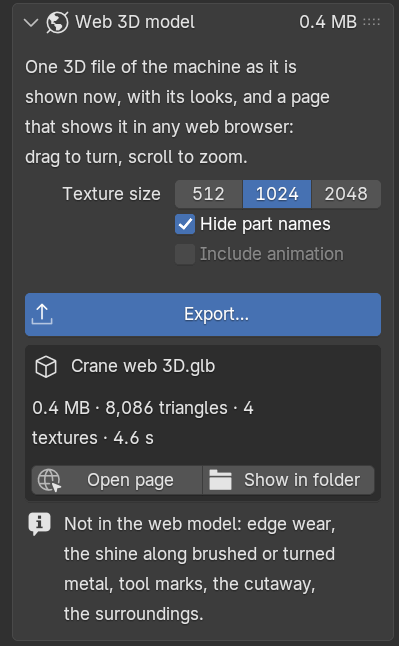
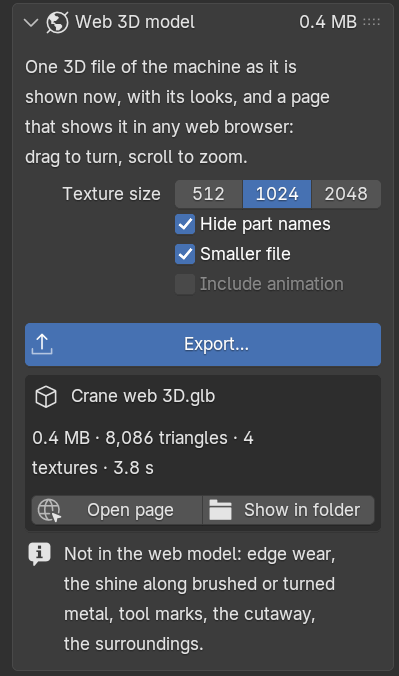
Task 0105: tests fixed, panel label 'Smaller file', guide picture
Claude-Session: https://claude.ai/code/session_01LGPBd6KpoiiiSyVj3fB3CN

diff --git a/tests/test_meshopt.py b/tests/test_meshopt.py
@@ -9,8 +9,7 @@ import pytest
 
 from fresing_render.core import meshopt as mo
 
-# A vertex buffer the meshopt library itself (0.22, meshopt_encodeVertexBuffer, version 0) wrote for these 20
-# elements of 4 bytes: the NumPy encoder must give the same bytes (same format, same choices).
+# 20 elements of 4 bytes: the library itself (meshopt_encodeVertexBuffer, version 0) must read what NumPy writes.
 REF_DATA = np.array([[i, (i * 7) % 256, 255 - i, i // 3] for i in range(20)], np.uint8)
 
 
@@ -51,22 +50,34 @@ def test_vertex_buffer_packs_neighbouring_points():
         mo.encode_vertex_buffer(np.zeros((4, 6), np.uint8))           # glTF wants a multiple of 4 bytes
 
 
-def test_vertex_buffer_is_what_the_library_writes():
+def test_vertex_buffer_is_read_by_the_library():
+    """meshopt's own decoder reads the NumPy encoder's bytes, and they are no longer than its own encoder's (the two
+    may choose differently where two packings are the same size)."""
+    import ctypes
     lib = _library()
-    enc = mo.encode_vertex_buffer(REF_DATA)
-    if lib is not None:
-        import ctypes
-        f = lib.lib.meshopt_encodeVertexBuffer if hasattr(lib.lib, "meshopt_encodeVertexBuffer") else None
-        if f is not None:
-            lib.lib.meshopt_encodeVertexVersion(0)
-            f.restype = ctypes.c_size_t
-            f.argtypes = [ctypes.c_void_p, ctypes.c_size_t, ctypes.c_void_p, ctypes.c_size_t, ctypes.c_size_t]
-            out = np.zeros(4096, np.uint8)
-            data = np.ascontiguousarray(REF_DATA)
-            n = f(out.ctypes.data, len(out), data.ctypes.data, len(data), 4)
-            assert enc == out[:n].tobytes()
-    # the tail: at least 32 bytes after the blocks, the first element last
-    assert enc[-4:] == REF_DATA[0].tobytes() and len(enc) >= 1 + 32
+    pos, _ = _grid()
+    for data in (REF_DATA, np.concatenate([pos, np.zeros((len(pos), 1), np.int16)], axis=1).view(np.uint8)):
+        data = np.ascontiguousarray(data)
+        enc = mo.encode_vertex_buffer(data)
+        assert enc[-data.shape[1]:] == data[0].tobytes() and len(enc) >= 1 + 32      # tail: the first element last
+        if lib is None or not hasattr(lib.lib, "meshopt_encodeVertexBuffer"):
+            continue
+        L = lib.lib
+        L.meshopt_encodeVertexVersion.argtypes = [ctypes.c_int]
+        L.meshopt_encodeVertexVersion(0)
+        L.meshopt_encodeVertexBuffer.restype = ctypes.c_size_t
+        L.meshopt_encodeVertexBuffer.argtypes = [ctypes.c_void_p, ctypes.c_size_t, ctypes.c_void_p, ctypes.c_size_t,
+                                                 ctypes.c_size_t]
+        out = np.zeros(len(enc) * 2 + 4096, np.uint8)
+        n = L.meshopt_encodeVertexBuffer(out.ctypes.data, len(out), data.ctypes.data, len(data), data.shape[1])
+        assert len(enc) <= n
+        L.meshopt_decodeVertexBuffer.restype = ctypes.c_int
+        L.meshopt_decodeVertexBuffer.argtypes = [ctypes.c_void_p, ctypes.c_size_t, ctypes.c_size_t, ctypes.c_void_p,
+                                                 ctypes.c_size_t]
+        back = np.zeros_like(data)
+        src = np.frombuffer(enc, np.uint8).copy()
+        assert L.meshopt_decodeVertexBuffer(back.ctypes.data, len(data), data.shape[1], src.ctypes.data, len(src)) == 0
+        assert np.array_equal(back, data)
 
 
 def test_malformed_vertex_buffers_are_refused():
@@ -79,11 +90,13 @@ def test_malformed_vertex_buffers_are_refused():
 
 def test_index_sequence_round_trip():
     _, tri = _grid()
-    for idx in (tri, np.array([0, 70000, 3, 2 ** 32 - 1, 0]), np.zeros(0, np.int64)):
+    for idx in (tri, np.array([0, 70000, 3, 2 ** 30 - 1, 0]), np.zeros(0, np.int64)):
         enc = mo.encode_index_sequence(idx)
         assert enc[0] == mo.SEQUENCE_HEADER and enc[-mo.SEQUENCE_TAIL:] == bytes(mo.SEQUENCE_TAIL)
         assert np.array_equal(mo.decode_index_sequence(enc, len(idx)), idx)
-    assert len(mo.encode_index_sequence(tri)) < 2 * len(tri)              # under 2 bytes an index on a mesh
+    assert len(mo.encode_index_sequence(tri)) < 2 * len(tri)
+    with pytest.raises(ValueError):
+        mo.encode_index_sequence(np.array([0, 2 ** 31]))              # under 2 bytes an index on a mesh
 
 
 def _library():

diff --git a/tests/test_web3d.py b/tests/test_web3d.py
@@ -293,3 +293,26 @@ def test_bake_scene_is_a_copy_and_empty():
     finally:
         b.close()
     assert len(bpy.data.scenes) == 1
+
+
+def test_compressed_export_and_the_panels_default(mill_export, tmp_path):
+    """Task 0105: Smaller file is on by default but packs only a big model; forced on, the test mill is packed with
+    meshopt, reads back to the same parts and triangles, and its page switches the viewer's decoder on."""
+    sc = fresh()
+    assert sc.fresing.web3d.compress is True
+    assert not core.summary(mill_export["data"])["compressed"]          # 2,693 triangles: below COMPRESS_FROM
+    out = web3d.export(sc, str(tmp_path / "packed.glb"), size=512, compress=True)
+    data = open(out["path"], "rb").read()
+    assert core.problems(data) == []
+    s0, s1 = core.summary(mill_export["data"]), core.summary(data)
+    assert s1["compressed"] and out["compressed"] and " compressed · " in out["text"]
+    assert (s1["parts"], s1["triangles"], s1["textures"]) == (s0["parts"], s0["triangles"], s0["textures"])
+    doc, _ = core.read_glb(data)
+    modes = {v["extensions"][core.MESHOPT]["mode"] for v in doc["bufferViews"] if "extensions" in v}
+    from fresing_render.core import meshopt
+    assert modes == {"ATTRIBUTES", "TRIANGLES" if meshopt.native() is not None else "INDICES"}
+    assert web3d.meshopt_native() is not None                         # Blender as a module ships libmeshoptimizer
+    page = open(out["html"], encoding="utf-8").read()
+    assert "meshoptDecoderLocation" in page
+    off = web3d.export(sc, str(tmp_path / "plain.glb"), size=512, compress=False)
+    assert not off["compressed"] and off["size"] > out["size"]

diff --git a/fresing_render/core/meshopt.py b/fresing_render/core/meshopt.py
@@ -147,7 +147,9 @@ def encode_index_sequence(idx: np.ndarray) -> bytes:
     if not len(i):
         return bytes([SEQUENCE_HEADER]) + bytes(SEQUENCE_TAIL)
     d = i - np.concatenate([[0], i[:-1]])
-    zz = np.where(d < 0, ((-d) << 1) - 1, d << 1).astype(np.uint64)  # zigzag (32-bit range)
+    if np.abs(d).max() >= 1 << 30:                                       # the format holds 31-bit differences
+        raise ValueError("meshopt: indices too far apart for an index sequence")
+    zz = np.where(d < 0, ((-d) << 1) - 1, d << 1).astype(np.uint64)  # zigzag
     v = zz << np.uint64(1)                                              # bit 0: baseline 0
     return bytes([SEQUENCE_HEADER]) + _leb128(v).tobytes() + bytes(SEQUENCE_TAIL)
 
@@ -311,6 +313,8 @@ def decode_index_sequence(src: bytes, count: int) -> np.ndarray:
     s = np.frombuffer(bytes(src), np.uint8)
     if not len(s) or s[0] != SEQUENCE_HEADER:
         raise ValueError("meshopt: not an index sequence")
+    if count == 0:
+        return np.zeros(0, np.int64)
     b = s[1:len(s) - SEQUENCE_TAIL]
     ends = np.nonzero(b < 0x80)[0]
     if len(ends) < count:

diff --git a/fresing_render/blender/props.py b/fresing_render/blender/props.py
@@ -2635,8 +2635,8 @@ class FRWeb3D(bpy.types.PropertyGroup):
         description="Puts the motion of the built animation into the file: the page plays it in a loop. Only "
                     "parts that move as a whole (no milling, chips, coolant or hoses). Makes the export slower")
     compress: BoolProperty(
-        name="Smaller file (compressed)", default=True,
-        description="On: a big model (200,000 triangles or more) is packed with meshopt, about half the file; its "
+        name="Smaller file", default=True,
+        description="Compresses a big model (200,000 triangles or more) with meshopt: about half the file; its "
                     "page opens it as before, offline too. Some older 3D viewers cannot open such a .glb on its own "
                     "(Blender 5.2, Chrome, Edge, Firefox and Safari can). Off: the plain file, about twice as big")
     last_path: StringProperty(default="")

diff --git a/fresing_render/blender/ui_web3d.py b/fresing_render/blender/ui_web3d.py
@@ -41,7 +41,7 @@ class FRESING_PT_web3d(_Panel, bpy.types.Panel):
         row = col.row(align=True)
         row.prop(w, "texture_size", text="Texture size", expand=True)
         col.prop(w, "hide_names", text="Hide part names")
-        col.prop(w, "compress", text="Smaller file (compressed)")
+        col.prop(w, "compress", text="Smaller file")
         sub = col.row()
         sub.enabled = animation.has_keys(scene)
         sub.prop(w, "animation", text="Include animation")

diff --git a/docs/USER-GUIDE.md b/docs/USER-GUIDE.md
@@ -1963,7 +1963,7 @@ the machine himself, or for your website.
    file for phones and e-mail; **2048** is sharpest but makes the file bigger and the export slower.
 3. **Hide part names** (on by default): the parts are called Part 1, Part 2 … in the file, so a customer does not
    see your part numbers. Switch it off to keep the names you see in the app.
-4. **Smaller file (compressed)** (on by default): a big model – 200,000 triangles or more – is packed tighter
+4. **Smaller file** (on by default): a big model – 200,000 triangles or more – is packed tighter
    (meshopt), about **half the file**; the page opens it as before, also offline. Smaller models are not packed:
    they would gain little. Some older 3D programs cannot open such a packed `.glb` on its own (Blender 5.2, Chrome,
    Edge, Firefox and Safari can); switch it off for a customer whose program refuses the file.

diff --git a/CHANGELOG.md b/CHANGELOG.md
@@ -8,7 +8,7 @@ installer of that version was built from.
 ## 0.2.81 – 13 Nov 2026 – web 3D model: half the file for big machines, half the memory at 2048 (task 0105)
 
 5 Scene & Render > **Web 3D model**
-- **Smaller file (compressed)**, on by default: a big model (200,000 triangles or more) is packed with meshopt –
+- **Smaller file** (compressed), on by default: a big model (200,000 triangles or more) is packed with meshopt –
   about **half the file** (the 3,000-part test machine 35 → 17 MB, the cable-lay demo vessel 25 → 12 MB). The page
   still opens offline from its one file, also on a phone: the viewer already carries the unpacker. Some older 3D
   programs cannot open a packed .glb on its own (Blender 5.2, Chrome, Edge, Firefox and Safari can); switch it off
